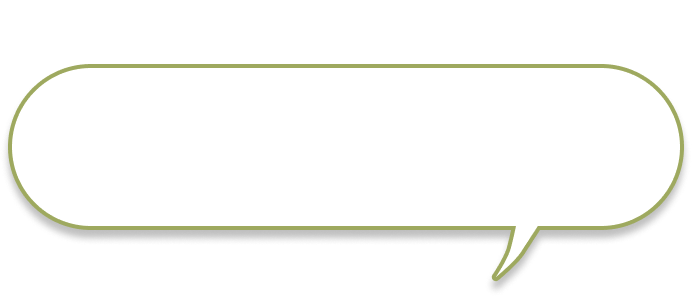
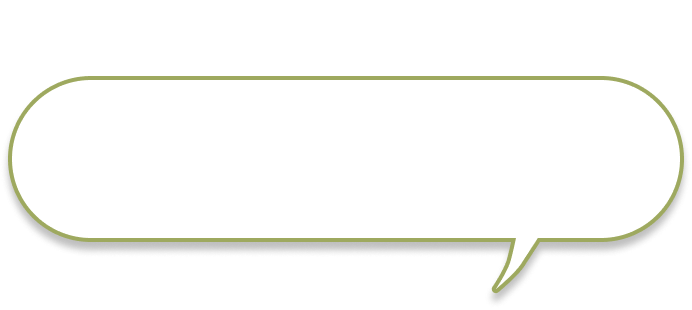
말풍선 간격 조정
홈 화면과 일기 화면 말풍선 수정

diff --git a/greeni/screens/DiaryScreen.js b/greeni/screens/DiaryScreen.js
@@ -17,12 +17,12 @@ export default function DiaryScreen({ navigation }) {
       {/* 말풍선 + 그리니 */}
       <View style={styles.greeniWrap}>
         <ImageBackground
-          source={require("../assets/images/bubble_home.png")}
+          source={require("../assets/images/bubble_diary.png")}
           style={styles.bubble}
           resizeMode="stretch"
         >
           <Text style={styles.bubbleText}>
-            안녕 ○○아,{"\n"}오늘의 일기쓰기를 시작해볼까?
+            안녕 ○○아,{"\n"}오늘의 일기쓰기를 시작해볼까?{/*{"\n"}폰트 크기가 정해져 있으니 어쩔 수 없지. 은서는 작은 글씨를 쓸 수 밖에*/}
           </Text>
         </ImageBackground>
 
@@ -80,7 +80,7 @@ const styles = StyleSheet.create({
     color: colors.brown,
     fontFamily: "gangwongyoyuksaeeum",
     textAlign: "center",
-    lineHeight: 25,
+    lineHeight: 26,
   },
   greeni: {
     width: W * 0.5,

diff --git a/greeni/screens/HomeScreen.js b/greeni/screens/HomeScreen.js
@@ -56,7 +56,7 @@ export default function HomeScreen({ navigation }) {
         resizeMode="stretch"
       >
         <Text style={styles.bubbleText}>
-          안녕 나는 그리니야!{"\n"}오늘은 또 어떤 하루를 보냈어?
+          안녕 나는 그리니야!{"\n"}오늘은 또 어떤 하루를 보냈어? 배고프면 밥을 먹고 움직이자. 내일을 또 살아가야 하니까 말이야...
         </Text>
       </ImageBackground>
 
@@ -133,7 +133,7 @@ const styles = StyleSheet.create({
     bottom: -10,
     maxWidth: W * 0.85, 
     paddingHorizontal: 40,
-    paddingVertical: 50,
+    paddingVertical: 60,
     alignItems: "center",
     justifyContent: "center",
   },
@@ -142,7 +142,7 @@ const styles = StyleSheet.create({
     color: colors.brown,
     fontFamily: "gangwongyoyuksaeeum",
     textAlign: "center",
-    lineHeight: 25,
+    lineHeight: 26,
   },
 
   greeni: {
